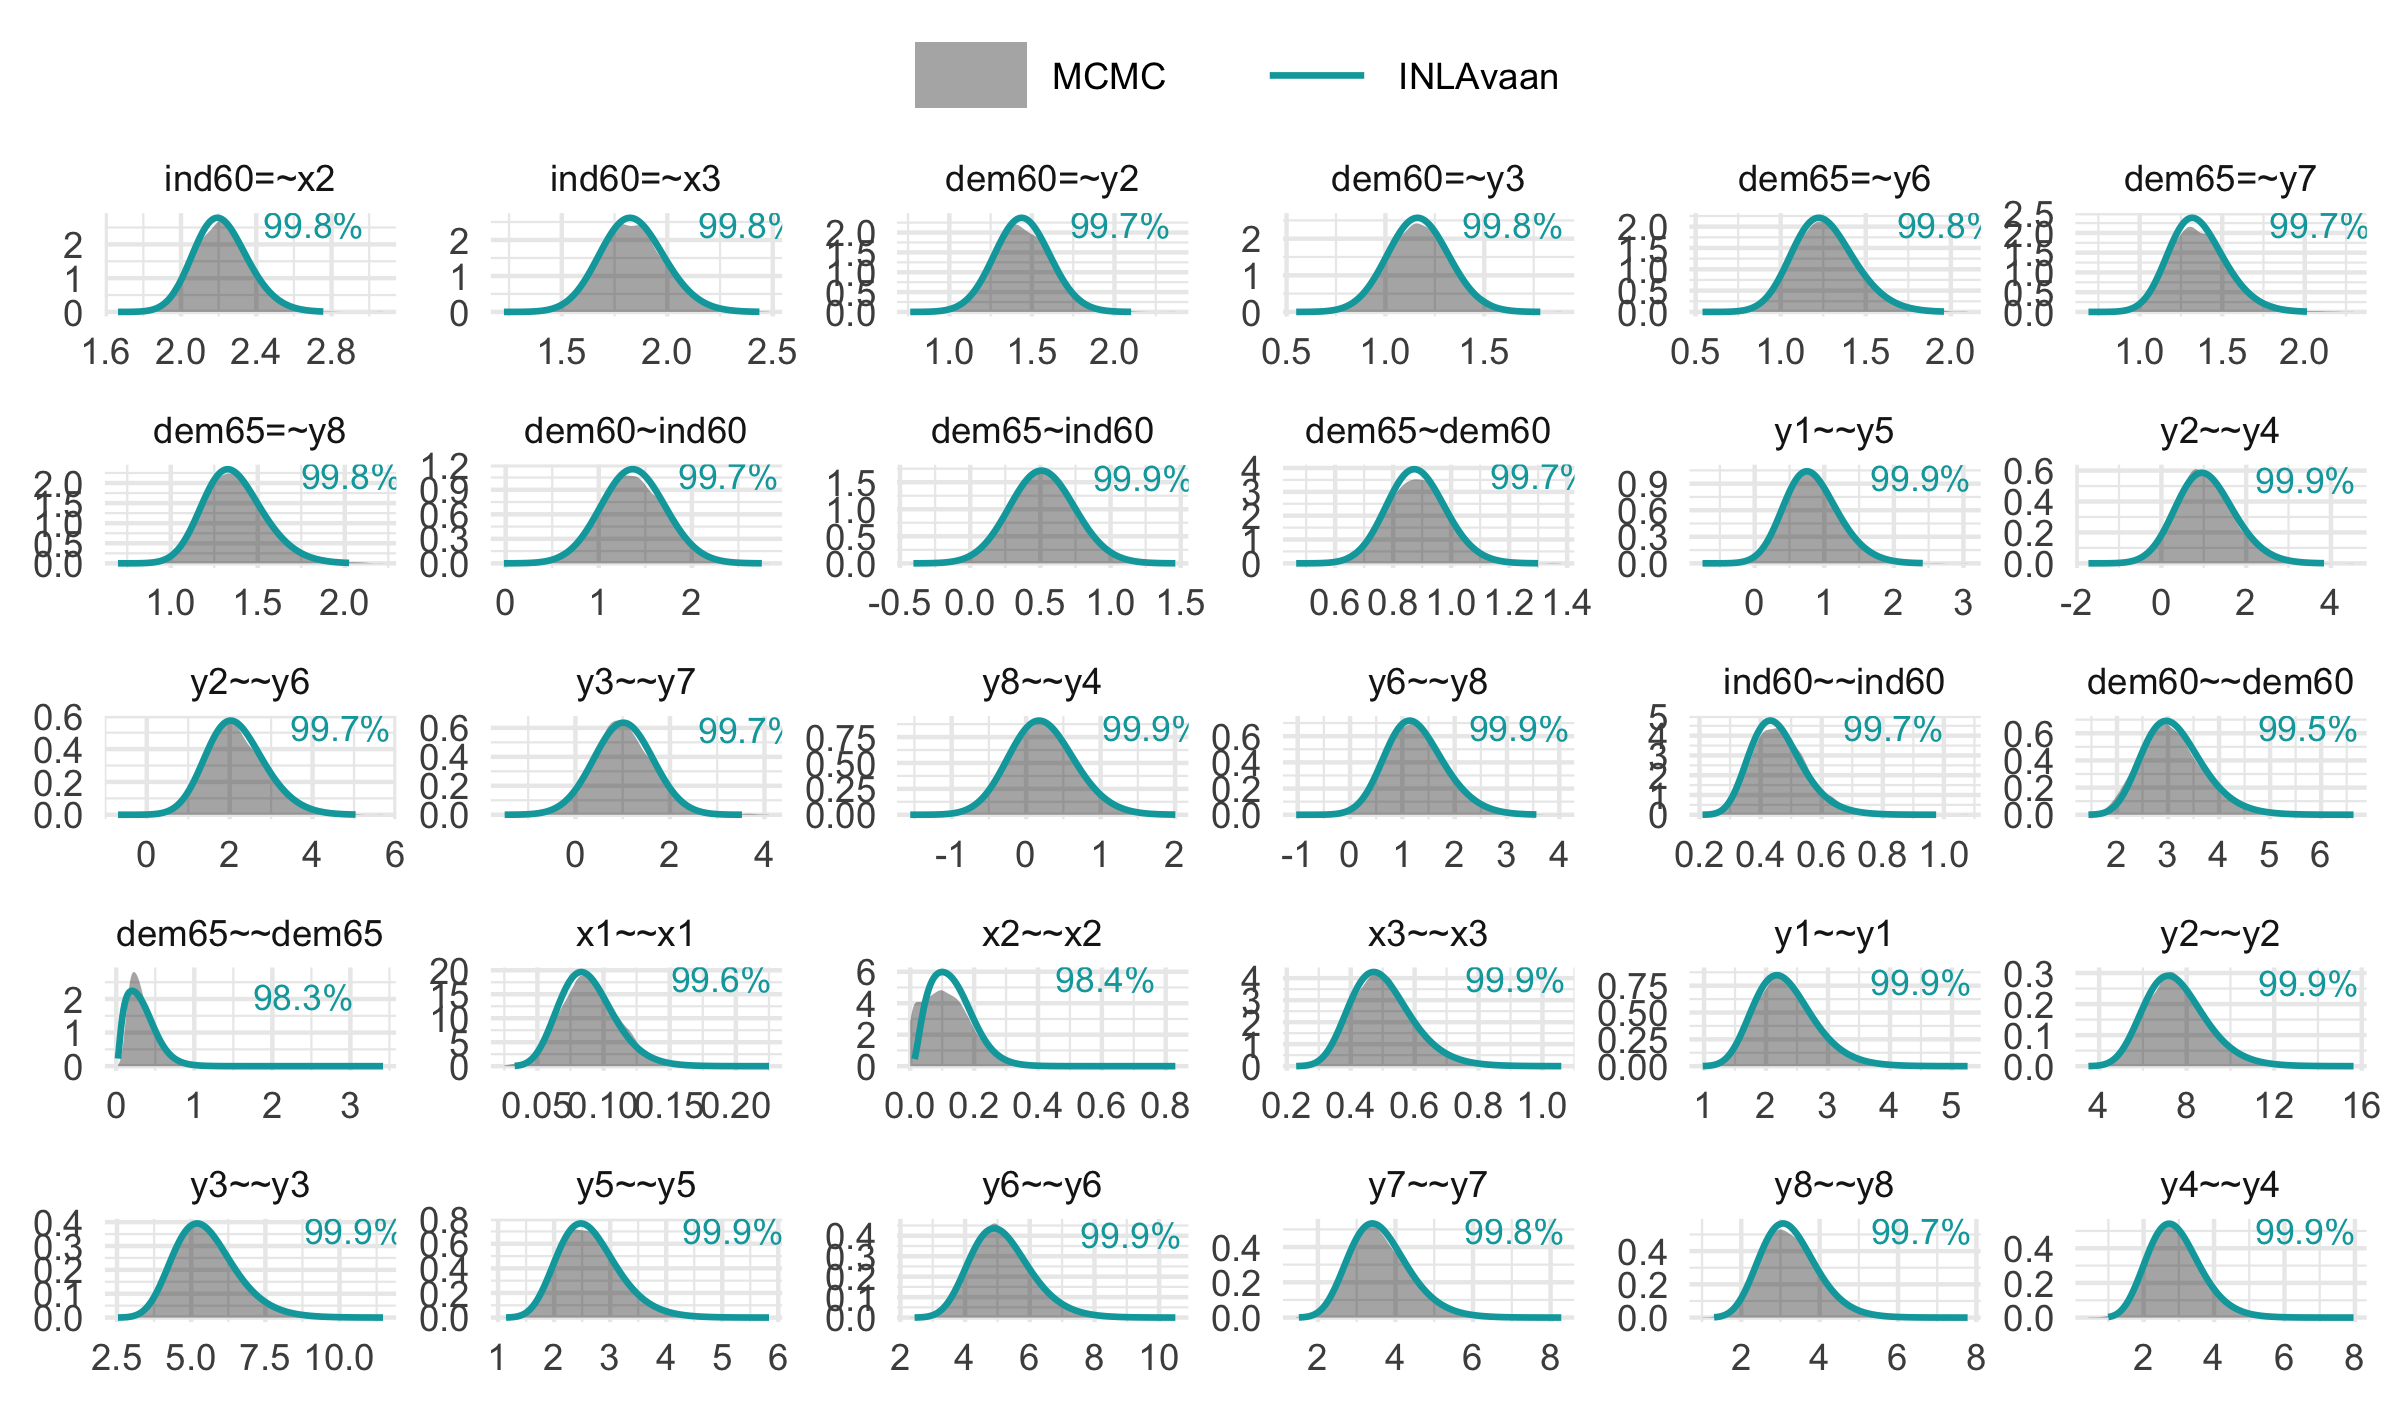
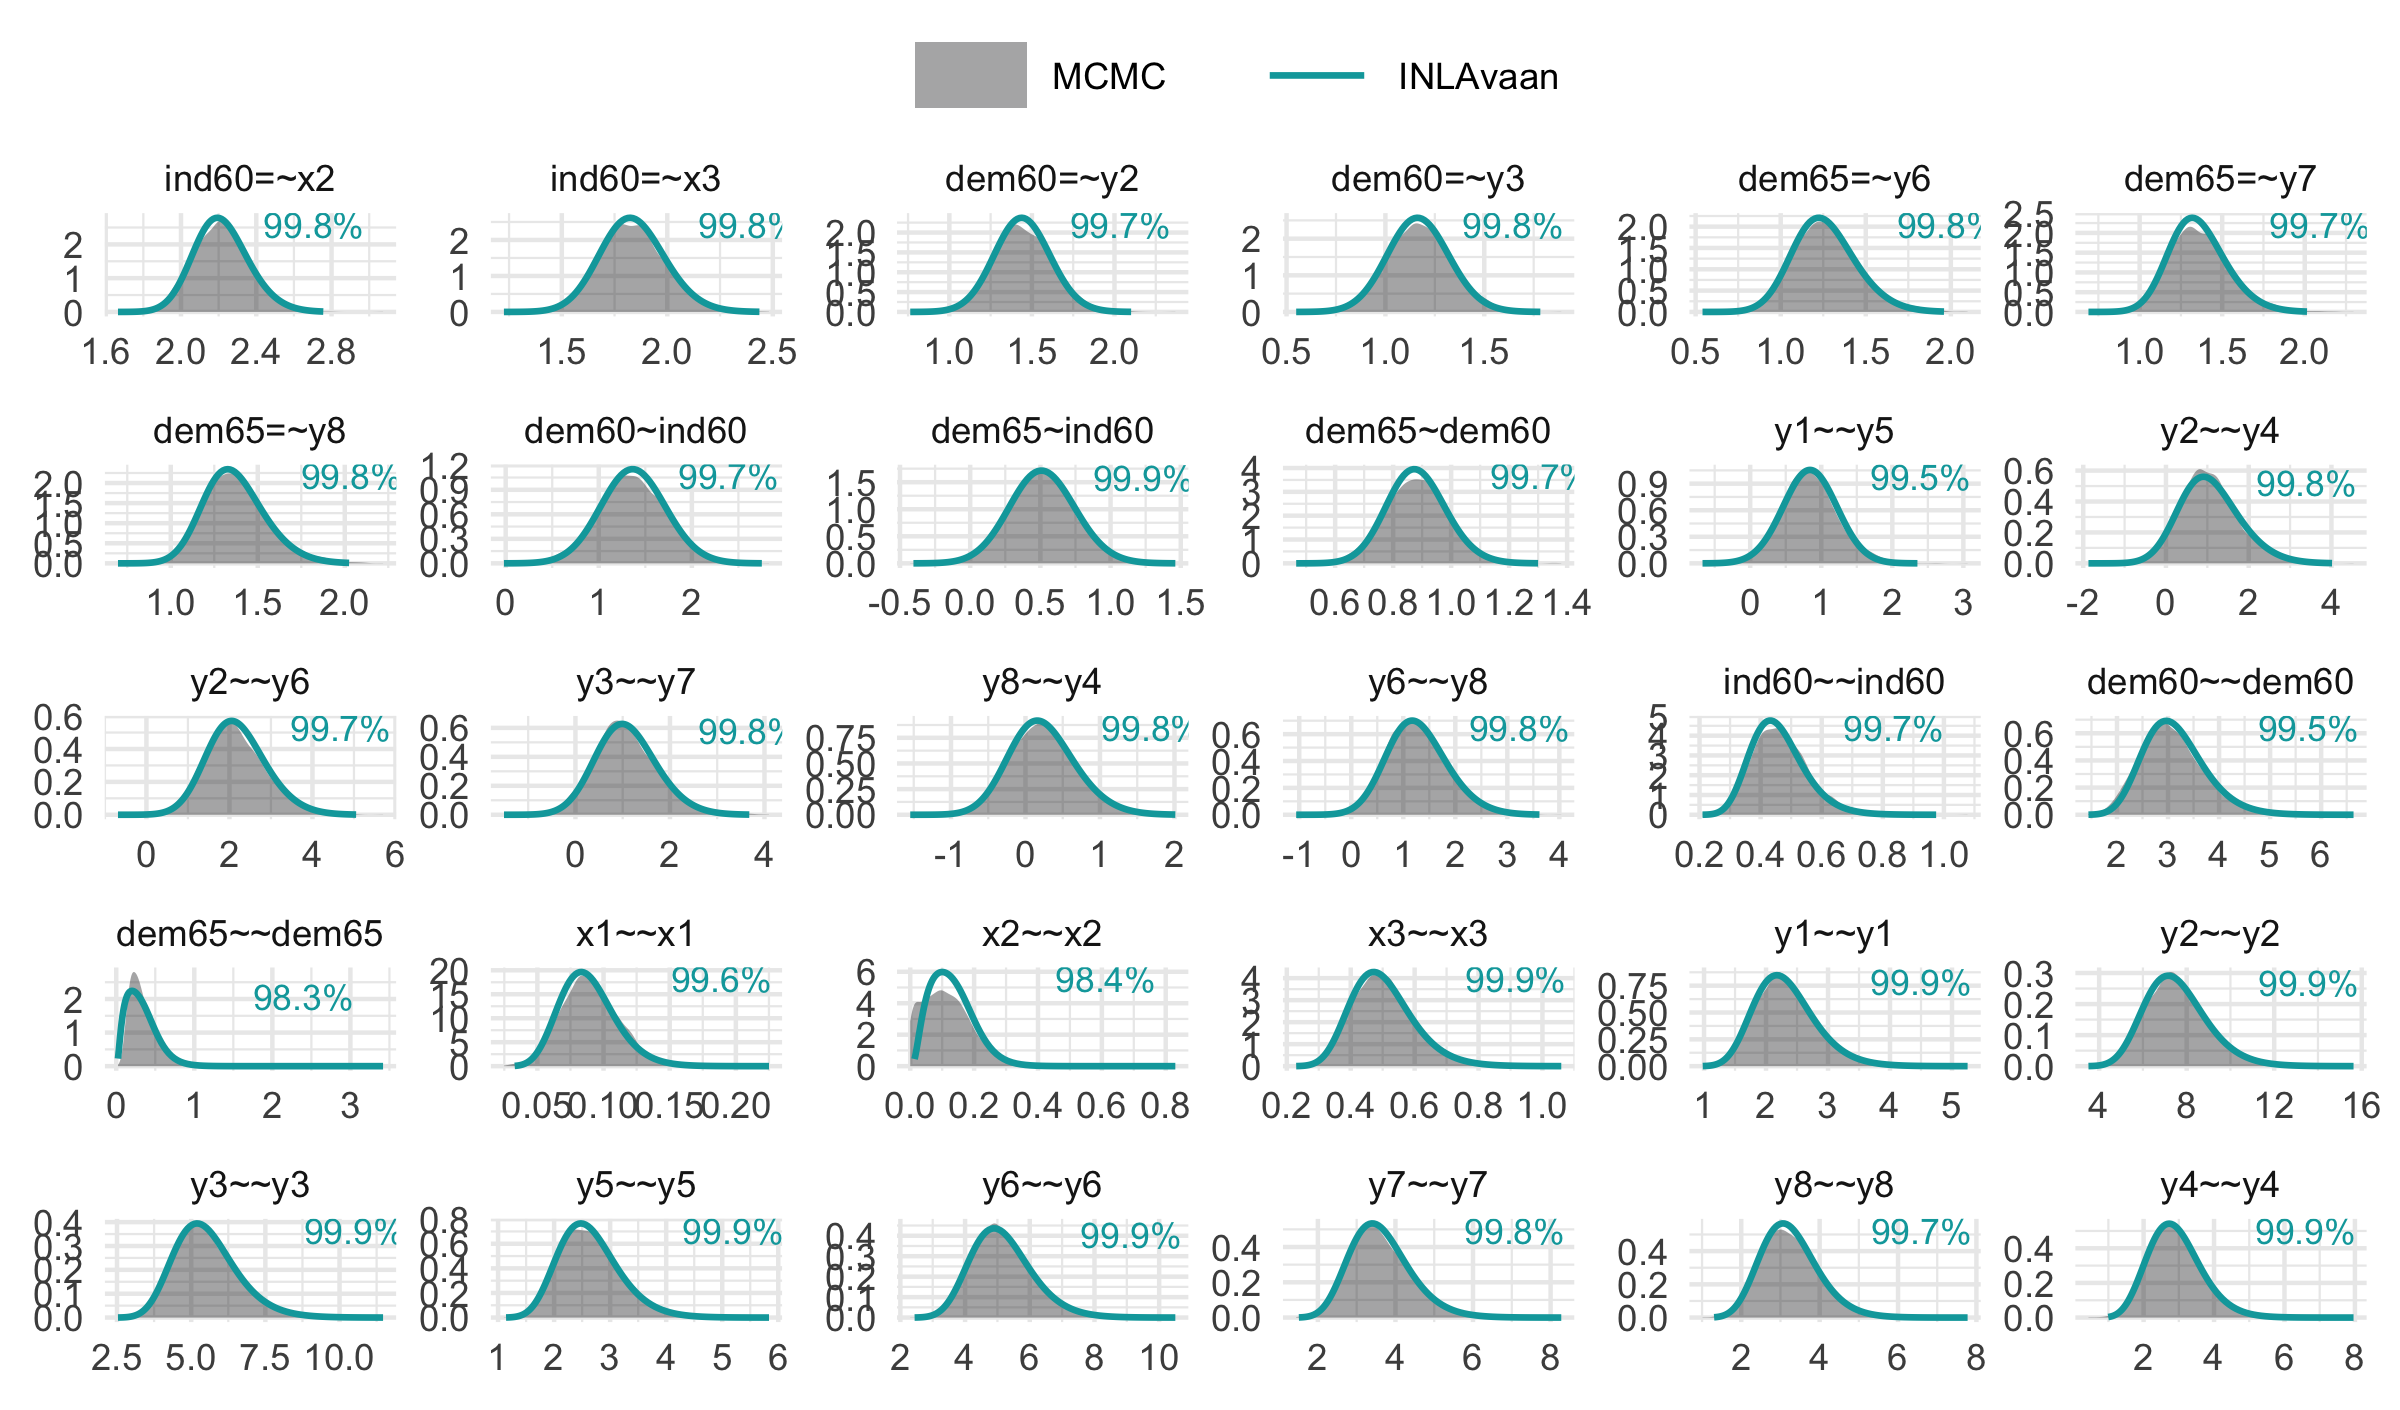
Update README

diff --git a/README.md b/README.md
@@ -73,26 +73,26 @@ utils::data("PoliticalDemocracy", package = "lavaan")
 
 fit <- asem(model = mod_poldem, data = PoliticalDemocracy)
 #> ℹ Finding posterior mode.
-#> ✔ Finding posterior mode. [34ms]
+#> ✔ Finding posterior mode. [35ms]
 #> 
 #> ℹ Computing the Hessian.
-#> ✔ Computing the Hessian. [25ms]
+#> ✔ Computing the Hessian. [33ms]
 #> 
 #> ℹ Performing VB correction.
-#> ✔ VB correction; mean |δ| = 0.156σ. [73ms]
+#> ✔ VB correction; mean |δ| = 0.156σ. [67ms]
 #> 
 #> ⠙ Fitting 0/30 skew-normal marginals.
-#> ✔ Fitting 30/30 skew-normal marginals. [471ms]
+#> ✔ Fitting 30/30 skew-normal marginals. [484ms]
 #> 
 #> ℹ Adjusting copula correlations (NORTA).
-#> ✔ Adjusting copula correlations (NORTA). [110ms]
+#> ✔ Adjusting copula correlations (NORTA). [111ms]
 #> 
 #> ⠙ Posterior sampling and summarising.
-#> ✔ Posterior sampling and summarising. [266ms]
+#> ✔ Posterior sampling and summarising. [269ms]
 #> 
 
 summary(fit)
-#> INLAvaan 0.2.4.9000 ended normally after 80 iterations
+#> INLAvaan 0.2.5 ended normally after 80 iterations
 #> 
 #>   Estimator                                      BAYES
 #>   Optimization method                           NLMINB
@@ -103,12 +103,12 @@ summary(fit)
 #> Model Test (User Model):
 #> 
 #>    Marginal log-likelihood                   -1651.234 
-#>    PPP (Chi-square)                              0.473 
+#>    PPP (Chi-square)                              0.486 
 #> 
 #> Information Criteria:
 #> 
-#>    Deviance (DIC)                             3156.712 
-#>    Effective parameters (pD)                    28.949 
+#>    Deviance (DIC)                             3157.281 
+#>    Effective parameters (pD)                    29.234 
 #> 
 #> Parameter Estimates:
 #> 
@@ -144,16 +144,16 @@ summary(fit)
 #> Covariances:
 #>                    Estimate       SD     2.5%    97.5%     NMAD    Prior       
 #>  .y1 ~~                                                                        
-#>    .y5                0.331    0.396    0.129    1.681    0.005       beta(1,1)
+#>    .y5                0.331    0.378    0.100    1.582    0.005       beta(1,1)
 #>  .y2 ~~                                                                        
-#>    .y4                0.217    0.695   -0.212    2.517    0.004       beta(1,1)
-#>    .y6                0.347    0.717    0.894    3.706    0.011       beta(1,1)
+#>    .y4                0.217    0.736   -0.231    2.657    0.004       beta(1,1)
+#>    .y6                0.347    0.717    0.891    3.707    0.011       beta(1,1)
 #>  .y3 ~~                                                                        
-#>    .y7                0.225    0.628   -0.217    2.243    0.005       beta(1,1)
+#>    .y7                0.225    0.649   -0.104    2.444    0.005       beta(1,1)
 #>  .y8 ~~                                                                        
-#>    .y4                0.070    0.445   -0.604    1.144    0.003       beta(1,1)
+#>    .y4                0.070    0.445   -0.575    1.172    0.003       beta(1,1)
 #>  .y6 ~~                                                                        
-#>    .y8                0.307    0.574    0.251    2.503    0.005       beta(1,1)
+#>    .y8                0.307    0.584    0.228    2.523    0.005       beta(1,1)
 #> 
 #> Variances:
 #>                    Estimate       SD     2.5%    97.5%     NMAD    Prior       